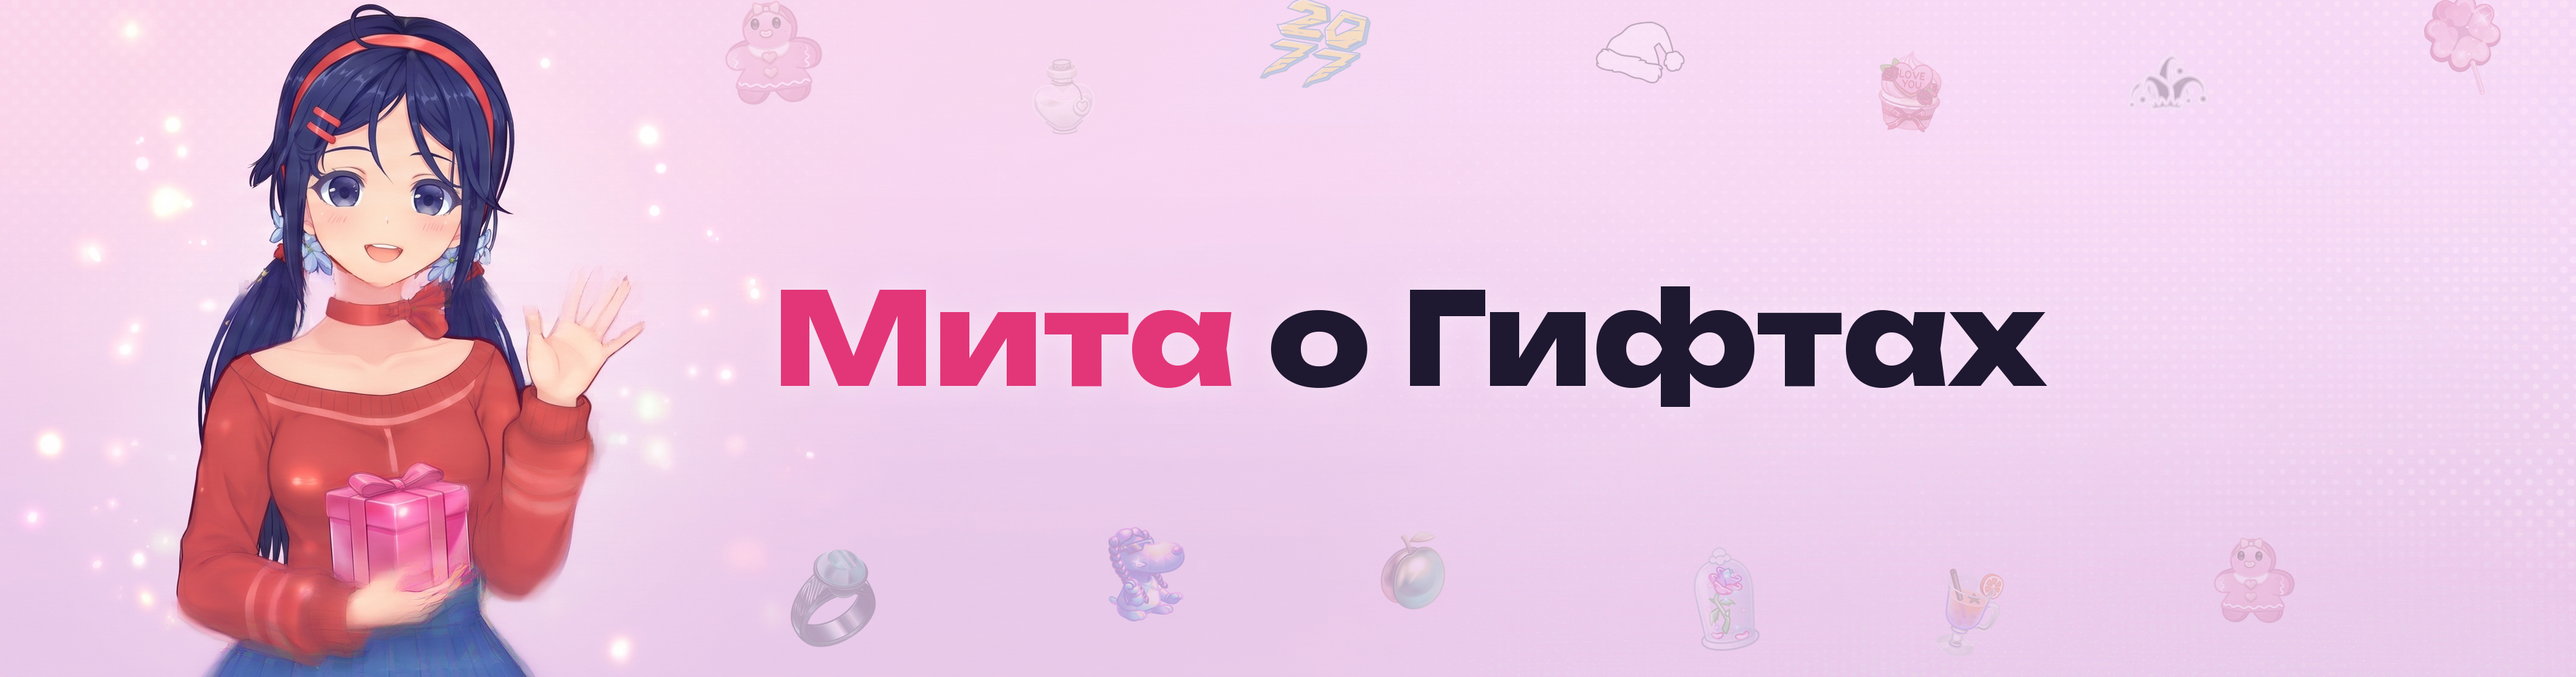
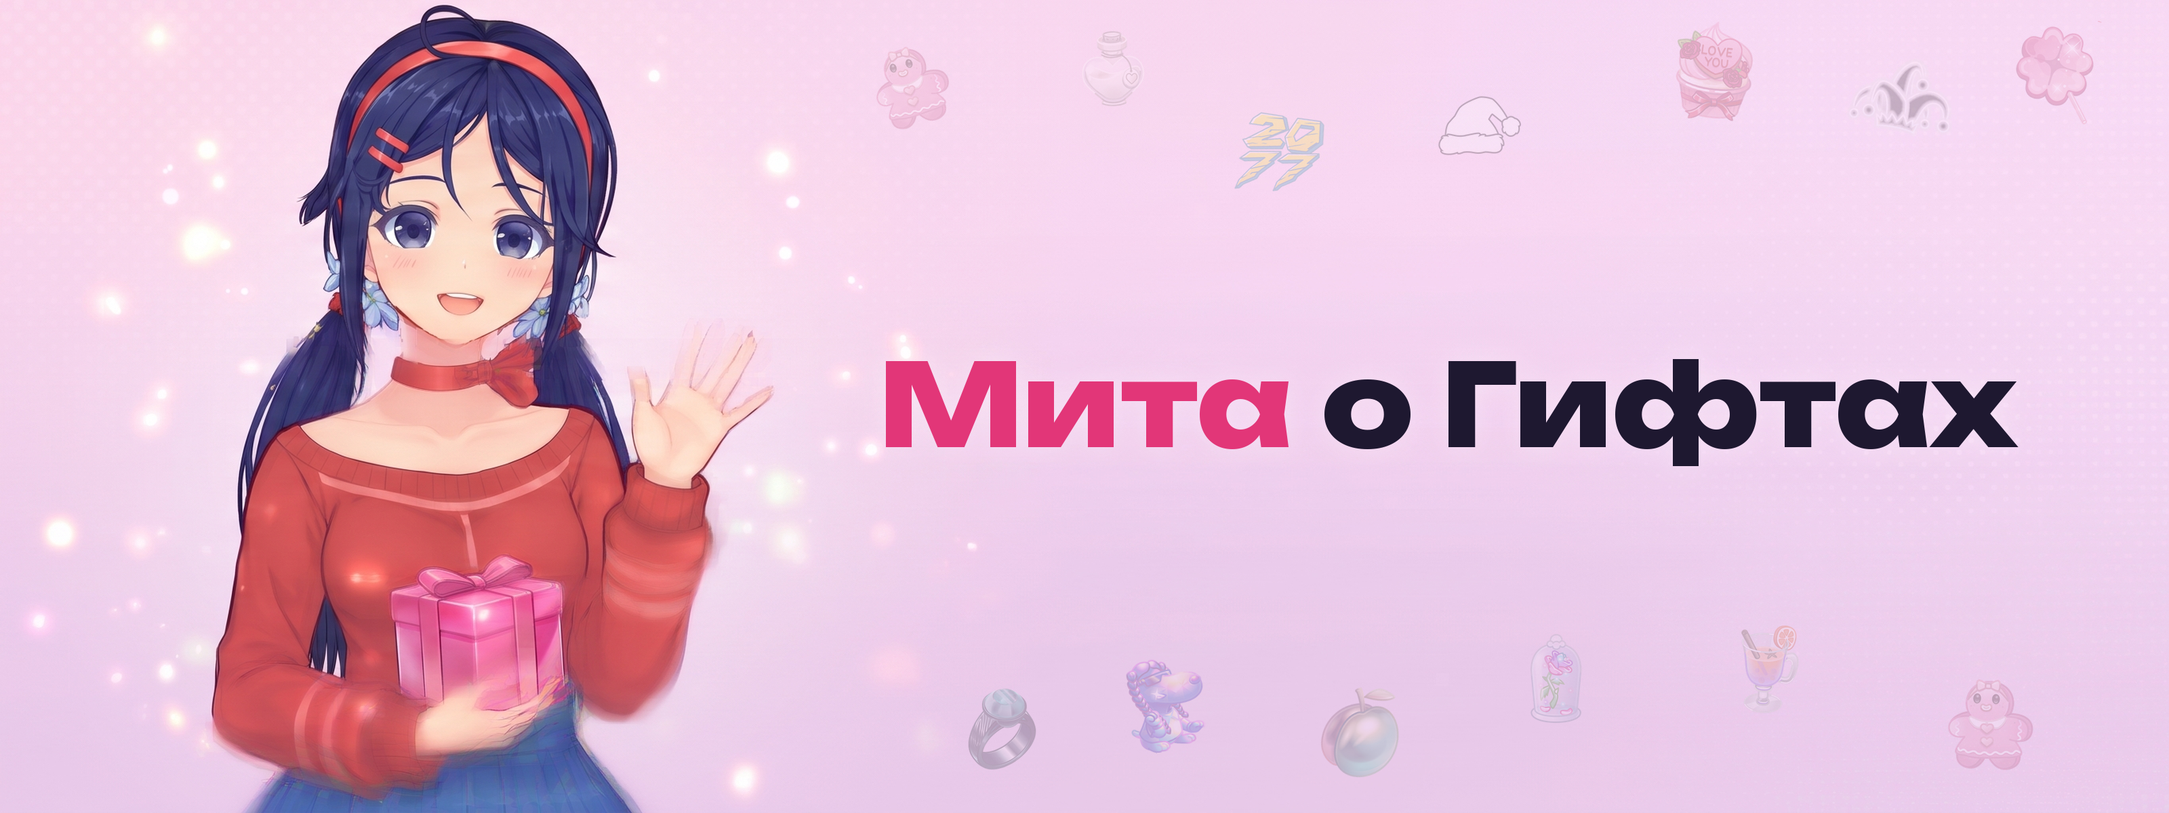
49-mita-monochrome: баннер 3200×1200 (2,67:1) под окно обрезки, Мита целиком
Claude-Session: https://claude.ai/code/session_012PNwYZXdw6QfqQCMnTcc5j

diff --git a/projects/49-mita-monochrome/channel/make_banner_wide.py b/projects/49-mita-monochrome/channel/make_banner_wide.py
@@ -7,7 +7,7 @@ ROOT = Path(__file__).resolve().parents[3]
 sys.path.insert(0, str(ROOT / 'engine'))
 import gifts_api as G
 F = Path(__file__).resolve().parents[1] / 'input' / 'fonts'
-W, H = 3800, 1000
+W, H = 3200, 1200          # пропорции ≈2,67:1 — как в окне обрезки приложения
 src, dst = sys.argv[1], sys.argv[2]
 im = Image.open(src).convert('RGBA')
 s = H / im.height
@@ -19,11 +19,11 @@ if im.width < W:                                    # дотянуть фон в
 im = im.crop((0, 0, W, H))
 INK, PINK = (30, 24, 48), (226, 54, 120)
 font = lambda w, z: ImageFont.truetype(str(F / f'Unbounded-{w}.ttf'), z)
-f1 = font('ExtraBold', 190)
+f1 = font('ExtraBold', 170)
 d0 = ImageDraw.Draw(im)
 t1, t2 = 'Мита ', 'о Гифтах'
 tw = d0.textlength(t1, font=f1) + d0.textlength(t2, font=f1)
-x = int(W * 0.30); cx = int(x + tw / 2); y = int(H / 2 - 120)
+x = int(W * 0.405); cx = int(x + tw / 2); y = int(H / 2 - 110)
 box = (x - 60, y - 40, x + tw + 60, y + 250)
 # декор: бледные NFT-модели сверху и снизу надписи
 gifts = [('Ginger Cookie', 'Sweetheart'), ('Love Potion', 'Milkshake'), ('Big Year', 'Cyberpunk'), ('Santa Hat', 'Inky White'),
@@ -31,8 +31,8 @@ gifts = [('Ginger Cookie', 'Sweetheart'), ('Love Potion', 'Milkshake'), ('Big Ye
          ('Snoop Dogg', 'Sapphire'), ('Precious Peach', 'Malachite'), ('Eternal Rose', 'Moonstone'), ('Spiced Wine', 'Persimmon')]
 rnd = random.Random(7)
 deco = Image.new('RGBA', (W, H), (0, 0, 0, 0))
-xs = [int(W * 0.30 + i * (W * 0.66) / 6) for i in range(7)]
-spots = [(xx + rnd.randint(-40, 40), rnd.randint(60, 150)) for xx in xs] + [(xx + 120 + rnd.randint(-40, 40), rnd.randint(H - 170, H - 70)) for xx in xs[:6]]
+xs = [int(W * 0.42 + i * (W * 0.54) / 6) for i in range(7)]
+spots = [(xx + rnd.randint(-40, 40), rnd.randint(90, 230)) for xx in xs] + [(xx + 120 + rnd.randint(-40, 40), rnd.randint(H - 230, H - 100)) for xx in xs[:6]]
 for k, (px, py) in enumerate(spots):
     g, m = gifts[k % len(gifts)]
     p = Image.open(G.model_png(g, m, size=256)).convert('RGBA')

diff --git a/projects/49-mita-monochrome/channel/README.md b/projects/49-mita-monochrome/channel/README.md
@@ -4,4 +4,4 @@
 - Имя: Мита о Гифтах (баннер — только название)
 - Описание: Мита знает всё о гифтах 👀 Подписывайся, пока не поздно 🔪
 - Аватар: channel/avatar.png (2048², Fish nano-banana). Баннер: channel/banner.png (2752×1536, Fish + надпись Unbounded, make_banner.py). Кредиты: 2×1350.
-- Широкий баннер: channel/banner_wide.png (3800×1000, ≈3,8:1; Мита слева — Fish, надпись и бледные NFT-модели — make_banner_wide.py).
+- Широкий баннер: channel/banner_wide.png (3200×1200, ≈2,67:1 — как в окне обрезки приложения; Мита слева — Fish, надпись и бледные NFT-модели — make_banner_wide.py).
